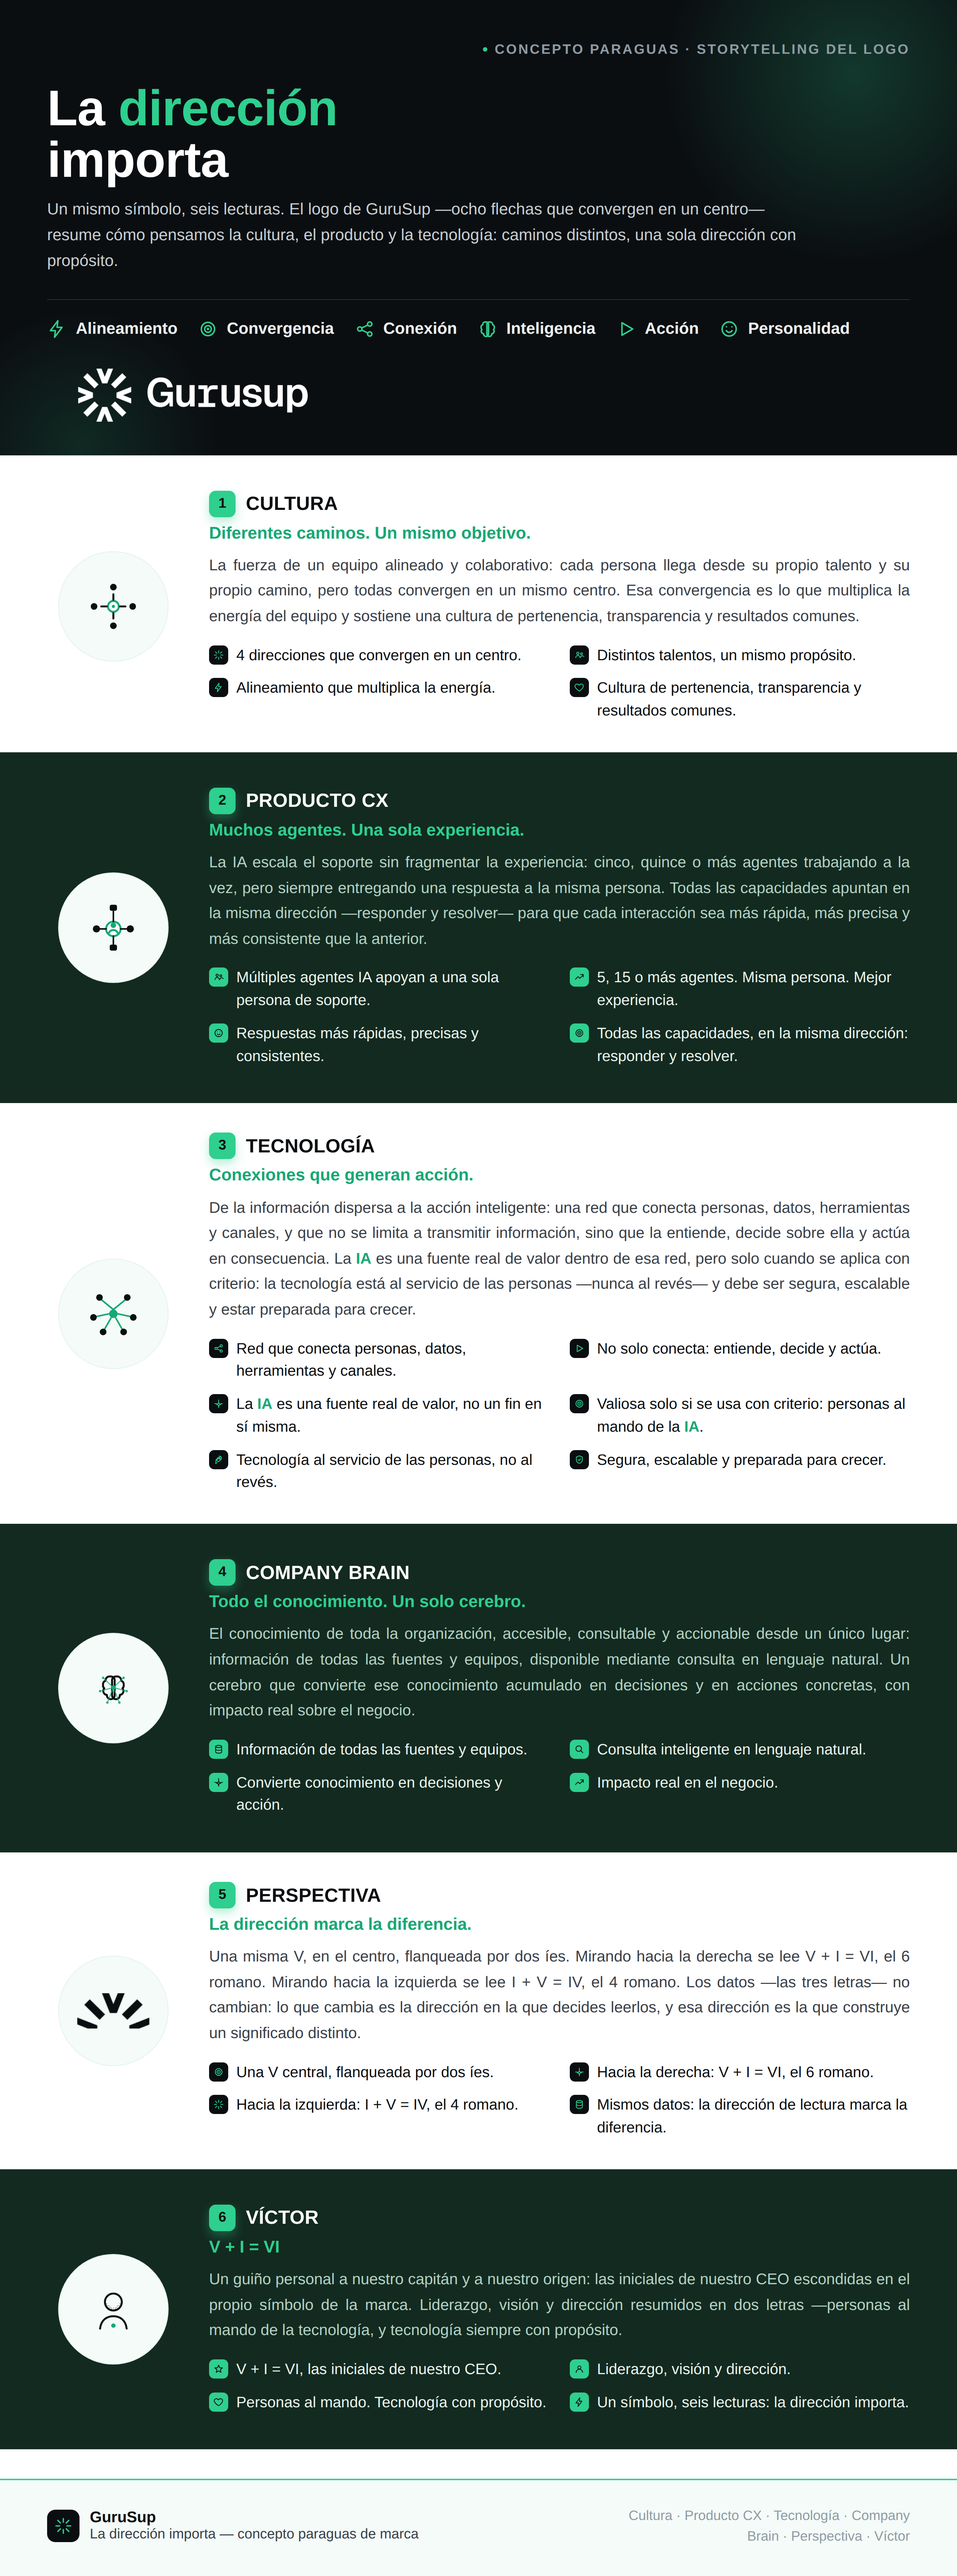
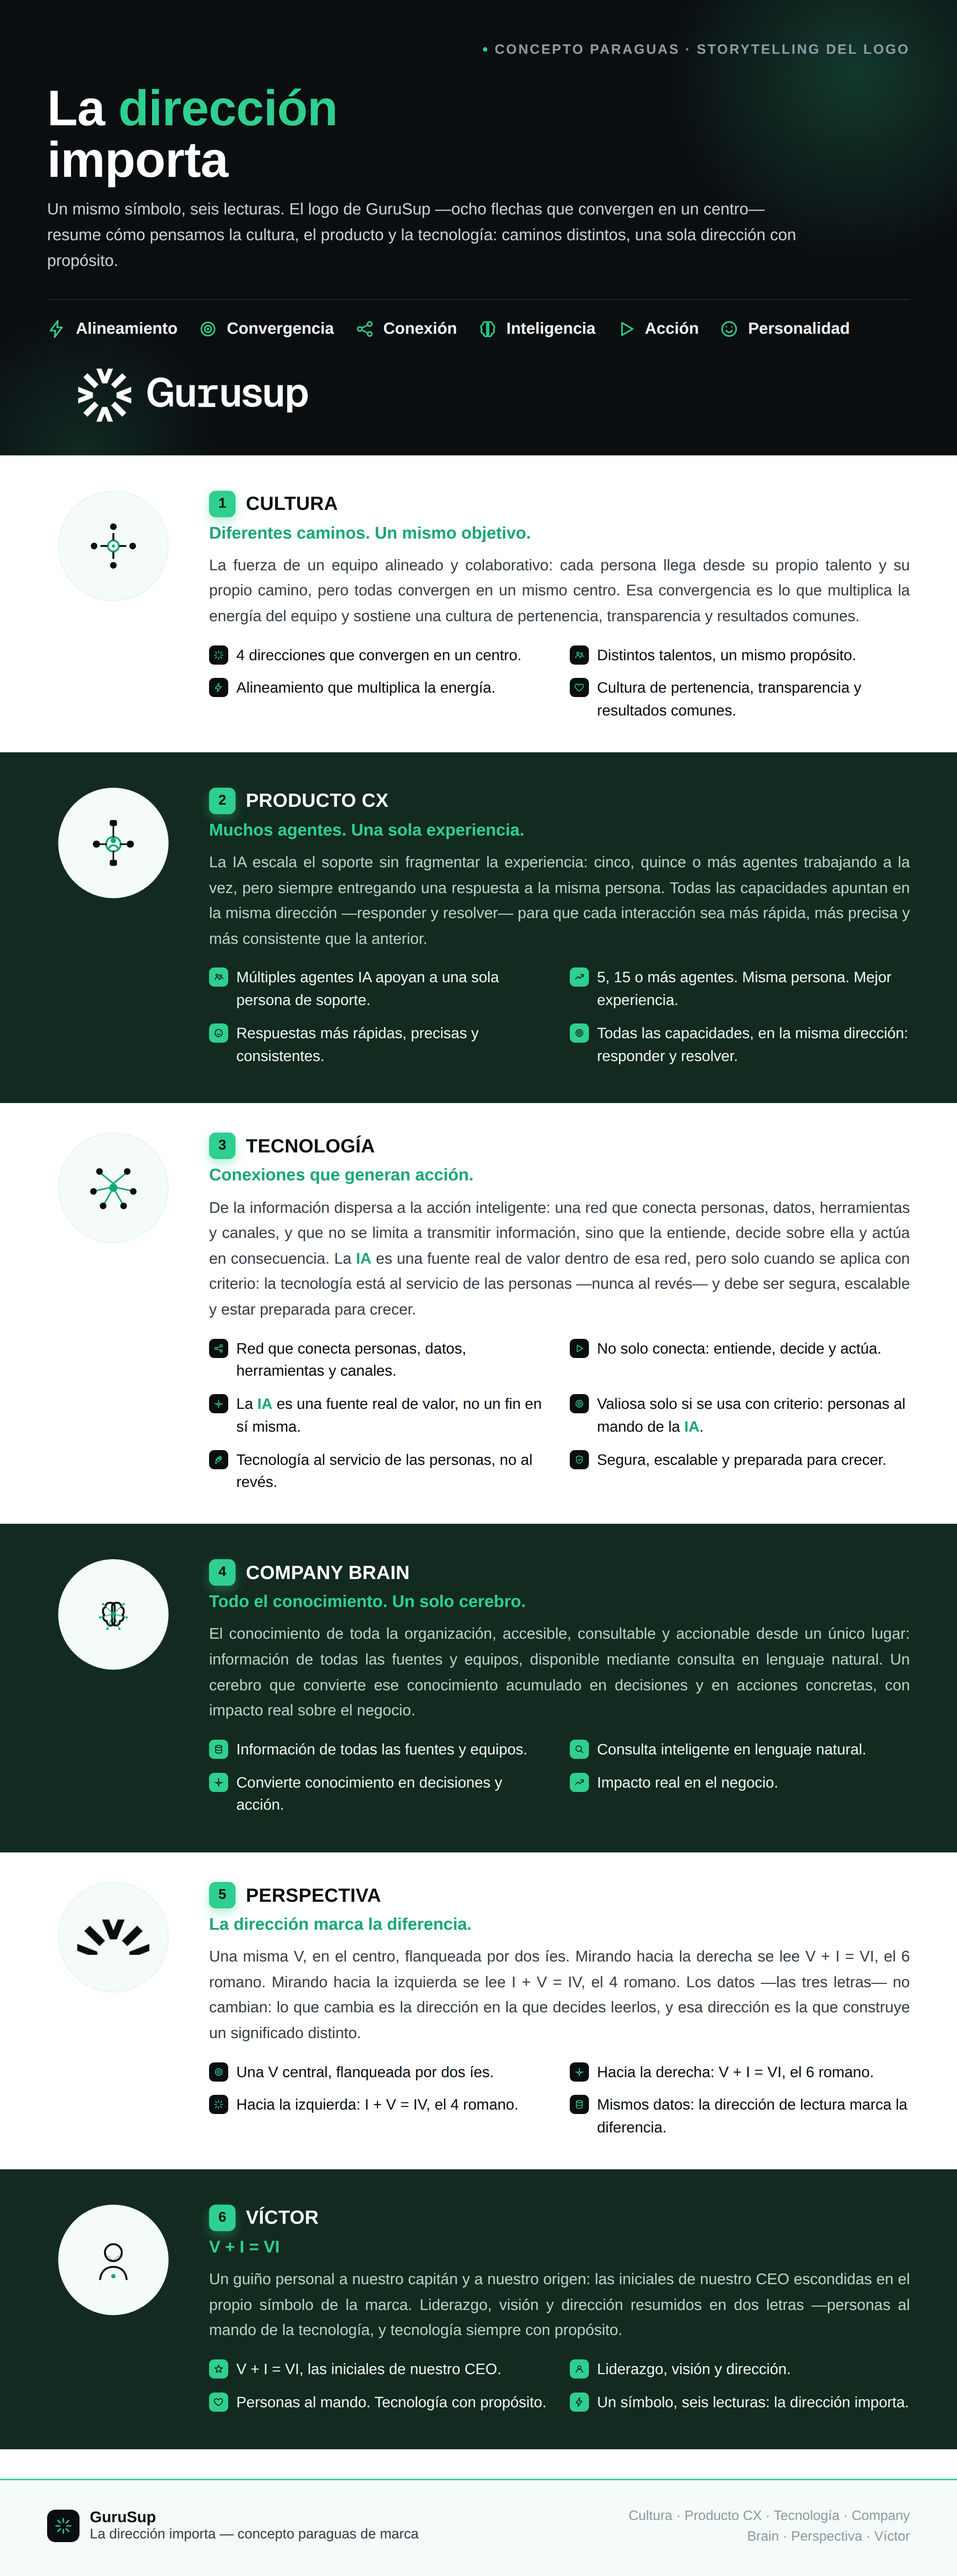
Sube las ilustraciones al nivel del título de cada sección
Vuelve a alinear illus-col arriba (align-items:flex-start) ahora que
el número ya no vive en esa columna, para que la ilustración quede a
la altura del título/párrafo en vez de centrada en toda la sección.

Claude-Session: https://claude.ai/code/session_019WmuM4uE7b9LjzLhY7VJCf

diff --git a/infografia/gurusup-direccion-importa.html b/infografia/gurusup-direccion-importa.html
@@ -88,7 +88,7 @@
   /* ===== SECTIONS ===== */
   .sections{ padding:8px 64px 40px; }
   .row{
-    display:flex; align-items:center; gap:40px;
+    display:flex; align-items:flex-start; gap:40px;
     padding:40px 0;
   }
   .row + .row{ border-top:1px solid var(--line); }
